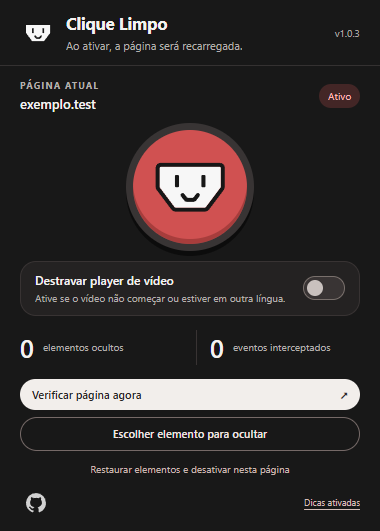
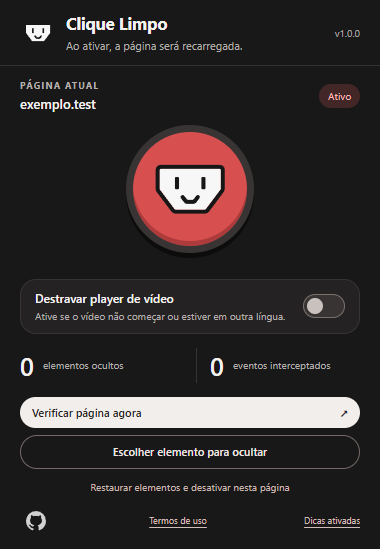
Consolida 1.0.0 com correcao do player e licenca de uso gratuito

diff --git a/clique-limpo/popup.js b/clique-limpo/popup.js
@@ -93,7 +93,7 @@ $("compatibility").addEventListener("change", event => {
   state = { ...state, compatibility };
   void act(async () => {
     const previousDocumentId = state.documentId;
-    const result = await chrome.runtime.sendMessage({ type: "SET_PLAYER_COMPATIBILITY", tabId, compatibility, documentId: state.documentId, pageUrl: state.pageUrl });
+    const result = await savePlayerOption(compatibility);
     if (!result?.ok) throw new Error(result?.error || "Não foi possível alterar a opção do player.");
     let confirmed = false;
     for (let attempt = 0; attempt < (result.reloaded ? 60 : 15); attempt++) {
@@ -107,6 +107,26 @@ $("compatibility").addEventListener("change", event => {
     $("feedback").textContent = compatibility ? "Opção do player ativada. Página recarregada." : "Opção do player desativada.";
   });
 });
+async function savePlayerOption(compatibility) {
+  // Unpacked updates can load the new popup while the preceding worker is still
+  // running. Use stable browser APIs instead of requiring a new worker command.
+  const page = await chrome.webNavigation.getFrame({ tabId, frameId: 0 });
+  if (!page || page.documentId !== state.documentId || page.url !== state.pageUrl || !/^https?:/.test(page.url)) {
+    throw new Error("A página mudou. Reabra o painel para ajustar o player.");
+  }
+  const key = `site:${new URL(page.url).hostname}`;
+  const stored = await chrome.storage.local.get(key);
+  const shouldReload = compatibility && stored[key]?.compatibility !== true;
+  await chrome.storage.local.set({ [key]: { ...stored[key], compatibility } });
+  if (shouldReload) {
+    const current = await chrome.webNavigation.getFrame({ tabId, frameId: 0 });
+    if (current?.documentId === page.documentId && current.url === page.url) {
+      await chrome.tabs.reload(tabId);
+      return { ok: true, reloaded: true };
+    }
+  }
+  return { ok: true, reloaded: false };
+}
 $("scan").addEventListener("click", () => void act(async () => {
   await chrome.tabs.sendMessage(tabId, { type: "SCAN" }, { frameId: 0 });
   await new Promise(resolve => setTimeout(resolve, 300));

diff --git a/clique-limpo/popup.css b/clique-limpo/popup.css
@@ -22,7 +22,7 @@ main { padding: 12px 20px; max-height: 530px; overflow-y: auto; scrollbar-width:
 #hostname { font-size: 13px; font-weight: 600; overflow-wrap: anywhere; margin-top: 3px; }
 .status-pill { flex-shrink: 0; font-size: 10px; border-radius: 20px; padding: 5px 9px; background: #383232; color: #ccc5c3; }
 .status-pill.active { background: #432626; color: #ffb6b6; }
-.activation { display: flex; flex-direction: column; align-items: center; padding: 10px 0; text-align: center; }
+.activation { display: flex; flex-direction: column; align-items: center; padding: 12px 0 26px; text-align: center; }
 button { font: inherit; cursor: pointer; border: 0; transition: background .15s ease, transform .15s ease, box-shadow .15s ease; }
 button:disabled { opacity: .45; cursor: default; }
 button:focus-visible, .switch input:focus-visible + span { outline: 2px solid #ffaaaa; outline-offset: 4px; }
@@ -76,6 +76,8 @@ footer { color: #a69e9b; font-size: 9px; margin-top: 7px; display: flex; align-i
 .github-link:hover { background: #302b2a; }
 .github-link:hover img { opacity: 1; }
 .github-link:focus-visible { outline: 2px solid #ffaaaa; outline-offset: 2px; }
+.terms-link { color: #d3bdb8; text-underline-offset: 3px; border-radius: 4px; padding: 4px 0; }
+.terms-link:focus-visible { outline: 2px solid #ffaaaa; outline-offset: 3px; }
 #tips-toggle { font: inherit; color: #d3bdb8; background: transparent; padding: 4px 0; border-radius: 4px; text-decoration: underline; text-underline-offset: 3px; }
 .welcome { margin-bottom: 14px; border-color: #6c4343; }
 .welcome h2 { font-size: 13px; margin: 0 0 6px; }

diff --git a/clique-limpo/popup.html b/clique-limpo/popup.html
@@ -13,7 +13,7 @@
       <h1>Clique Limpo</h1>
       <p id="reload-notice">Ao ativar, a página será recarregada.</p>
     </div>
-    <span class="version-badge">v1.0.3</span>
+    <span class="version-badge">v1.0.0</span>
   </header>
   <main>
     <aside id="welcome" class="welcome card" hidden aria-labelledby="welcome-title">
@@ -73,6 +73,7 @@
       <a class="github-link" href="https://github.com/emanuelz-martins/clique-limpo" target="_blank" rel="noopener noreferrer" aria-label="Abrir o repositório do Clique Limpo no GitHub" title="Repositório no GitHub">
         <img src="icons/github.svg" alt="" aria-hidden="true">
       </a>
+      <a class="terms-link" href="https://github.com/emanuelz-martins/clique-limpo/blob/main/docs/TERMOS_DE_USO.md" target="_blank" rel="noopener noreferrer">Termos de uso</a>
       <button id="tips-toggle" type="button" aria-pressed="true" title="Mostrar dicas para ativar a proteção em páginas suspeitas">Dicas ativadas</button>
     </footer>
   </main>

diff --git a/scripts/package.py b/scripts/package.py
@@ -30,8 +30,10 @@ def main():
         if source.is_symlink() or any(part.startswith(".") for part in relative.parts) or source.suffix in {".pem", ".crx", ".log"}:
             raise ValueError("Unexpected extension file: {}".format(relative))
         extension_files.append((source, relative.as_posix()))
+    extension_files.append((ROOT / "LICENSE.md", "LICENSE.txt"))
     manual_files = [(source, "clique-limpo/" + name) for source, name in extension_files]
     manual_files.append((ROOT / "README.md", "README.md"))
+    manual_files.append((ROOT / "LICENSE.md", "LICENSE.md"))
     manual_files.extend((source, source.relative_to(ROOT).as_posix()) for source in (ROOT / "docs").rglob("*") if source.is_file())
     manual = OUTPUT / "Clique-Limpo.zip"
     store = OUTPUT / "Clique-Limpo-loja.zip"

diff --git a/LICENSE.md b/LICENSE.md
@@ -1,0 +1,45 @@
+# Licença de uso e distribuição gratuita do Clique Limpo
+
+Versão da licença: 1.0. Data: 11 de outubro de 2026.
+
+Titular dos materiais próprios do projeto: emanuelz-martins, mantenedor do repositório oficial `https://github.com/emanuelz-martins/clique-limpo`.
+
+## 1. Permissões
+
+É concedida licença não exclusiva, gratuita e sem cobrança de royalties para instalar, executar, estudar e fazer cópias de segurança do Clique Limpo. O uso é permitido em dispositivos pessoais, educacionais e profissionais, inclusive em empresas, sem cobrança pelo aplicativo.
+
+É permitido modificar o código para uso próprio e distribuir gratuitamente cópias originais ou modificadas, desde que sejam observadas as condições desta licença.
+
+## 2. Gratuidade e proibição de revenda
+
+O aplicativo e suas versões derivadas devem permanecer gratuitos para os destinatários. É proibido vender, revender, alugar, sublicenciar mediante pagamento ou cobrar por licença, download, acesso, atualização ou recurso do Clique Limpo.
+
+Também é proibido incluir o aplicativo ou uma versão derivada em um pacote pago, condicionar sua obtenção à compra de outro produto ou serviço ou monetizar sua distribuição com anúncios próprios do distribuidor. Renomear o aplicativo ou modificar sua interface não afasta essas restrições.
+
+O uso interno do aplicativo por uma empresa não constitui revenda. A licença não autoriza cobrar dos destinatários pelo aplicativo sob a denominação de taxa de instalação, desbloqueio ou acesso.
+
+## 3. Distribuição e modificações
+
+Toda distribuição deve conservar esta licença, a identificação de autoria e os avisos de componentes de terceiros. O destinatário deve receber as mesmas permissões gratuitas e restrições de revenda estabelecidas aqui.
+
+Versões modificadas devem identificar suas alterações e não podem ser apresentadas como uma versão oficial ou como uma publicação aprovada pelo mantenedor. Não é permitido remover a condição de gratuidade nem aplicar termos que autorizem a revenda dos materiais próprios do projeto.
+
+## 4. Componentes de terceiros
+
+Esta licença abrange somente o código e os materiais próprios sobre os quais o titular detém direitos. Componentes de terceiros conservam suas licenças e permissões originais. O ícone do GitHub, por exemplo, utiliza a licença MIT incluída em `icons/GITHUB-LICENSE.txt` no pacote da extensão. As restrições desta licença não alteram os direitos concedidos separadamente pelos titulares desses componentes.
+
+## 5. Uso responsável
+
+O usuário é responsável por utilizar o aplicativo conforme a legislação aplicável e por respeitar os direitos de terceiros. A licença do aplicativo não concede autorização para acessar contas, sistemas ou conteúdos sem permissão de seus titulares.
+
+## 6. Garantias e responsabilidade
+
+O aplicativo é fornecido no estado em que se encontra. Na medida permitida pela legislação aplicável, não são oferecidas garantias de funcionamento ininterrupto, adequação a uma finalidade específica, anonimato ou bloqueio de todos os anúncios e rastreadores. Direitos obrigatórios previstos em lei não são afastados por esta cláusula.
+
+## 7. Descumprimento
+
+A distribuição ou exploração do aplicativo em desacordo com esta licença não é autorizada. O infrator deve interromper a atividade incompatível e retirar a oferta ou cobrança irregular. O titular pode adotar as medidas cabíveis para proteger seus direitos, conforme a legislação aplicável.
+
+## 8. Contato
+
+Dúvidas e solicitações relativas a esta licença podem ser encaminhadas ao mantenedor pelas issues do repositório oficial. Uma autorização excepcional deve ser expressa e fornecida pelo titular; não se presume autorização de revenda pelo acesso público ao código.

diff --git a/README.md b/README.md
@@ -5,7 +5,7 @@
 
 Extensão gratuita para Chrome e Microsoft Edge que ajuda a proteger interações em páginas com camadas transparentes, pop-ups e redirecionamentos publicitários. A proteção é ativada manualmente, apenas na aba escolhida.
 
-**Versão atual: 1.0.3.** Não exige conta, assinatura, servidor de análise ou outro bloqueador. O processamento das páginas acontece no navegador.
+**Versão atual: 1.0.0 consolidada.** Não exige conta, assinatura, servidor de análise ou outro bloqueador. O processamento das páginas acontece no navegador.
 
 <div align="center">
   <img src="docs/images/painel.png" alt="Painel do Clique Limpo com a proteção ativada" width="100%" />
@@ -87,6 +87,14 @@ Não há telemetria, sincronização de preferências, código remoto ou envio d
 
 Consulte a [política de privacidade](docs/PRIVACIDADE.md) para conhecer os dados utilizados e como removê-los.
 
+## Uso gratuito e licença
+
+O Clique Limpo pode ser usado gratuitamente em dispositivos pessoais, educacionais e profissionais. É permitido estudar, adaptar e compartilhar cópias gratuitamente, mantendo a licença, os créditos e a identificação das modificações.
+
+A revenda é proibida, inclusive de versões modificadas. Não é permitido cobrar por licença, download, acesso, atualização ou recursos, nem incluir o aplicativo em pacotes pagos ou monetizar sua distribuição com anúncios próprios. O código está disponível sob uma licença específica de distribuição gratuita.
+
+Consulte a [licença completa](LICENSE.md) e os [termos de uso](docs/TERMOS_DE_USO.md). Os termos também podem ser abertos pelo rodapé do painel. Componentes de terceiros mantêm suas licenças originais.
+
 ## Limitações
 
 A detecção é heurística: pode deixar passar anúncios ou classificar um elemento legítimo incorretamente. A extensão não garante anonimato, bloqueio de todos os anúncios ou invisibilidade online.
@@ -103,10 +111,10 @@ docs/              Imagens, privacidade e guias
 demo/              Demonstração local com camadas simuladas
 tests/             Testes da extensão real em navegador isolado
 scripts/           Verificação, geração de ícones e empacotamento
-.github/workflows/ Validação e releases automáticas
+.github/workflows/ Validação e geração de artefatos
 ```
 
-O GitHub Actions verifica o projeto e executa os testes. Tags no formato `v1.0.3` geram uma release com `Clique-Limpo.zip`, `Clique-Limpo-loja.zip` e suas somas SHA-256, depois que os testes passam. O segundo ZIP contém `manifest.json` na raiz e é destinado aos painéis das lojas.
+O GitHub Actions verifica o projeto, executa os testes e gera artefatos. Ele não publica releases automaticamente. Uma versão só deve ser disponibilizada depois da validação local e no navegador. Os pacotes de distribuição são `Clique-Limpo.zip`, `Clique-Limpo-loja.zip` e suas somas SHA-256. O segundo ZIP contém `manifest.json` na raiz e é destinado aos painéis das lojas. Ambos incluem a licença do aplicativo.
 
 As releases do GitHub não atualizam instalações manuais automaticamente. Veja os guias de [desenvolvimento](docs/DESENVOLVIMENTO.md) e [publicação](docs/PUBLICACAO.md).
 

diff --git a/docs/TERMOS_DE_USO.md b/docs/TERMOS_DE_USO.md
@@ -1,0 +1,35 @@
+# Política do aplicativo e termos de uso
+
+O Clique Limpo é gratuito. Não há cobrança por instalação, licença, atualização ou uso de suas funções. O repositório oficial é [emanuelz-martins/clique-limpo](https://github.com/emanuelz-martins/clique-limpo).
+
+## Uso permitido
+
+Você pode instalar e utilizar a extensão para proteger sua navegação, em casa, no estudo ou no trabalho. Pode estudar o código, fazer cópias de segurança, realizar adaptações e compartilhar cópias gratuitamente, respeitando a [licença do projeto](../LICENSE.md).
+
+## Revenda proibida
+
+Não é permitido vender, revender, alugar ou cobrar pelo Clique Limpo, por seus recursos ou por versões derivadas. Também não é permitido incluí-lo em pacotes pagos, exigir a compra de outro produto para obtê-lo ou monetizar sua distribuição com anúncios próprios. O acesso público ao código não autoriza remover essas condições.
+
+## Cópias e adaptações
+
+Ao compartilhar uma cópia, mantenha a licença, os créditos e os avisos de componentes de terceiros. Indique alterações realizadas e não apresente uma versão modificada como oficial. Os destinatários devem continuar recebendo o aplicativo gratuitamente, com os mesmos direitos e restrições de distribuição.
+
+## Funcionamento
+
+A proteção é ativada pelo usuário. A extensão pode alterar temporariamente elementos da página, interceptar interações e aplicar regras de rede. A ativação da proteção recarrega a página. Ativar a opção do player salva a preferência e recarrega a página para aplicar sua configuração.
+
+A detecção de camadas e anúncios é heurística e pode falhar. O aplicativo não corrige servidores indisponíveis, não traduz vídeos e não garante anonimato ou remoção de todos os anúncios. Se algo deixar de funcionar, o usuário pode desativar a proteção, restaurar elementos ou ajustar a opção do player.
+
+## Privacidade
+
+O processamento das páginas ocorre no navegador. A extensão não envia conteúdo das páginas ou preferências para um servidor próprio. Os dados locais e as permissões são descritos na [política de privacidade](PRIVACIDADE.md).
+
+## Responsabilidade e direitos de terceiros
+
+O usuário deve respeitar a legislação aplicável e os direitos de outras pessoas e serviços. A permissão para usar o Clique Limpo não autoriza acesso indevido a sistemas ou conteúdos. Componentes de terceiros continuam sujeitos às suas próprias licenças.
+
+As condições de distribuição, gratuidade e garantias constam da licença do projeto. Estes termos não afastam direitos obrigatórios previstos em lei.
+
+## Contato
+
+Relate problemas e dúvidas nas [issues do repositório](https://github.com/emanuelz-martins/clique-limpo/issues), sem incluir senhas, dados pessoais ou informações privadas das páginas visitadas.

diff --git a/docs/PUBLICACAO.md b/docs/PUBLICACAO.md
@@ -8,14 +8,14 @@ Para oferecer um botão de instalação com confirmação do navegador, é neces
 
 ## Release no GitHub
 
-Atualize versão e documentação, execute as verificações e envie o commit para `main`. Depois crie a tag correspondente:
+Atualize versão e documentação, execute as verificações e valide a extensão no navegador antes de enviar o commit para `main`. Depois crie a tag correspondente:
 
 ```powershell
-git tag v1.0.3
-git push origin v1.0.3
+git tag v1.0.0
+git push origin v1.0.0
 ```
 
-O workflow **Validar e distribuir** testa em Edge com perfil isolado. Após os testes passarem, publica os pacotes:
+O workflow **Validar e distribuir** testa em Edge com perfil isolado. Após os testes passarem, gera artefatos com os pacotes:
 
 | Arquivo | Destino |
 | --- | --- |
@@ -23,7 +23,9 @@ O workflow **Validar e distribuir** testa em Edge com perfil isolado. Após os t
 | `Clique-Limpo-loja.zip` | Envio às lojas; contém `manifest.json` na raiz. |
 | `SHA256SUMS.txt` | Integridade dos dois pacotes. |
 
-Envios para `main`, pull requests e execuções manuais também geram artefatos, mas somente uma tag enviada publica uma release. A publicação nas lojas não está automatizada e não usa credenciais de desenvolvedor no repositório.
+Envios para `main`, tags, pull requests e execuções manuais geram artefatos, mas não publicam releases. Para distribuir uma versão aprovada, crie a release manualmente no GitHub e anexe os três arquivos de `dist/`. A publicação nas lojas também é manual. Não há credenciais de desenvolvedor no repositório.
+
+A versão 1.0.0 foi consolidada com as correções do painel e do player. Sua consolidação substitui o pacote inicial sob solicitação do mantenedor. Nas próximas atualizações, use uma versão nova e não mova tags de versões já distribuídas.
 
 ## Chrome Web Store
 

diff --git a/docs/PRIVACIDADE.md b/docs/PRIVACIDADE.md
@@ -1,6 +1,6 @@
 # Política de privacidade
 
-Esta política descreve o comportamento do Clique Limpo 1.0.3.
+Esta política descreve o comportamento do Clique Limpo 1.0.0 consolidado.
 
 ## Processamento de páginas
 
